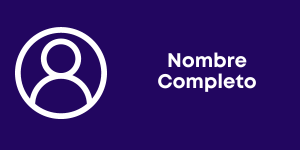
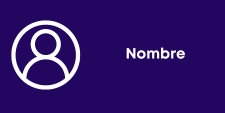
Correciones Gloria y Gabriel

diff --git a/UItkinter.py b/UItkinter.py
@@ -22,11 +22,13 @@ class UI:
         self.register_username = tk.PhotoImage(file="imagenes/NombreUsuarioAnalisis.png")
         self.register_mail = tk.PhotoImage(file="imagenes/correoRegistroAnalisRiesgo.png")
         self.register_password = tk.PhotoImage(file="imagenes/ContraseñaRegistroAnalisisRiesgo.png")
+        self.small_register_password= tk.PhotoImage(file="imagenes/ContraseniaPequena.png")
         self.log_out = tk.PhotoImage(file="imagenes/CerrarSesion.png")
         self.change_password = tk.PhotoImage(file="imagenes/CambiarContraseñaSesion.png")
         self.actual_password = tk.PhotoImage(file="imagenes/ContraseñaActual.png")
         self.new_password = tk.PhotoImage(file="imagenes/NuevaContraseña.png")
         self.delete_account = tk.PhotoImage(file="imagenes/EliminarCuenta.png")
+        self.verify_password = tk.PhotoImage(file="imagenes/VerificarContraseña.png")
 
         self.register_name_small = self.register_name.subsample(2)
         self.register_username_small = self.register_username.subsample(2)
@@ -63,63 +65,56 @@ class UI:
         self.ventana_log_out.state("zoomed")
 
     def obtener_info_order(self):
-        try:
             id = self.entry_id.get()
             password = self.entry_password.get()
             if " " in id:
                 raise Exception("El ID no puede contener espacios")
-            if " " in password:
+            elif " " in password:
                 raise Exception("No puede contener espacios la contraseña")
-        except Exception as error:
-            tk.messagebox.showinfo(str(error), str(error))
-        else:
-            return [id, password]
+
+            else:
+                return [id, password]
 
     def obtener_info_register(self):
-        try:
-            nombre = self.entry_name.get()
-            nombre_sin_espacios = nombre.replace(" ", "")
-            nombre_usuario = self.entry_id.get()
-            correo = self.entry_correo.get()
-            contrasenia = self.entry_password.get()
-            test_nombre_sin_espacios = nombre_sin_espacios.isalpha()
-            test_correo = ("@" in correo)
-            if test_nombre_sin_espacios is False:
-                raise Exception("No ingresaste bien el nombre")
-            if test_correo is False:
-                raise Exception("No ingresaste bien el correo")
-            if " " in contrasenia:
-                raise Exception("La contraseña no contiene espacios")
-            if " " in nombre_usuario:
-                raise Exception("El nombre de usuario es sin espacios")
-        except Exception as error:
-            tk.messagebox.showinfo(str(error), str(error))
+
+        nombre = self.entry_name.get()
+        nombre_sin_espacios = nombre.replace(" ", "")
+        nombre_usuario = self.entry_id.get()
+        correo = self.entry_correo.get()
+        contrasenia = self.entry_password.get()
+        v_contrasenia = self.entry_confirm_password.get()
+        test_nombre_sin_espacios = nombre_sin_espacios.isalpha()
+        test_correo = ("@" in correo)
+        if test_nombre_sin_espacios is False:
+            raise Exception("No ingresaste bien el nombre")
+        elif test_correo is False:
+            raise Exception("No ingresaste bien el correo")
+        elif " " in contrasenia:
+            raise Exception("La contraseña no contiene espacios")
+        elif " " in nombre_usuario:
+            raise Exception("El nombre de usuario es sin espacios")
+        elif v_contrasenia != contrasenia:
+            raise Exception("La verificación de contraseña no es correcta")
         else:
             return [nombre, nombre_usuario, correo, contrasenia]
 
+
     def obtener_info_change_password(self):
-        try:
             old_password = self.entry_old_password.get()
             new_password = self.entry_password.get()
             if " " in old_password:
                 raise Exception("Las contraseñas no pueden contener espacios")
-            if " " in new_password:
+            elif " " in new_password:
                 raise Exception("Las contraseñas  no pueden contener espacios")
-        except Exception as error:
-            tk.messagebox.showinfo(str(error), str(error))
-        else:
-            return [old_password, new_password]
+            else:
+                return [old_password, new_password]
 
     def obtener_info_delete_account(self):
-        try:
             password = self.entry_old_password.get()
             if " " in password:
                 raise Exception("Las contraseña no pueden contener espacios")
-
-        except Exception as error:
-            tk.messagebox.showinfo(str(error), str(error))
-        else:
-            return password
+            else:
+                return password
 
     # CREACION DE VENTANAS
     def create_principal_window(self, controller, username=""):
@@ -234,7 +229,7 @@ class UI:
                                      background="white", justify="center", bd=4, width=35, borderwidth=0, )
         self.entry_correo.grid(row=2, column=2)
 
-        self.label_password = tk.Label(self.ventana_user_register_buttons_frame, image=self.register_password,
+        self.label_password = tk.Label(self.ventana_user_register_buttons_frame, image=self.small_register_password,
                                        borderwidth=0,
                                        background="#220660")
         self.label_password.grid(row=3, column=1)
@@ -243,13 +238,22 @@ class UI:
                                        background="white", justify="center", bd=4, width=35, borderwidth=0, show="*")
         self.entry_password.grid(row=3, column=2)
 
+        self.label_confirm_password = tk.Label(self.ventana_user_register_buttons_frame, image=self.verify_password,
+                                       borderwidth=0,
+                                       background="#220660")
+        self.label_confirm_password.grid(row=4, column=1)
+        self.entry_confirm_password = tk.Entry(self.ventana_user_register_buttons_frame, font=("Calibri bold", 25),
+                                       fg="#220660",
+                                       background="white", justify="center", bd=4, width=35, borderwidth=0, show="*")
+        self.entry_confirm_password.grid(row=4, column=2)
+
         self.button_back = tk.Button(self.ventana_user_register_buttons_frame, image=self.menu, borderwidth=0,
                                      background="#220660", command=self.volver_menu)
         self.button_final_register = tk.Button(self.ventana_user_register_buttons_frame, image=self.user_register,
                                                borderwidth=0,
                                                background="#220660", command=controller.getinforegister)
-        self.button_back.grid(row=4, column=1)
-        self.button_final_register.grid(row=4, column=2)
+        self.button_back.grid(row=5, column=1)
+        self.button_final_register.grid(row=5, column=2)
 
         self.ventana_user_register.mainloop()
     def create_window_order(self, controller):

diff --git a/controller.py b/controller.py
@@ -17,19 +17,16 @@ class Controller:
     def getinforegister(self):
         try:
             usuario=self.vista.obtener_info_register()
-            print(usuario)
             self.modelo.sign_up(usuario[0],usuario[1],usuario[2],usuario[3])
+
         except Exception as error:
             tk.messagebox.showerror(str(error),str(error))
         else:
-            tk.messagebox.showinfo("Se ingreso correctamente el usuario","No ocurrio ningún problema")
 
             self.vista.volver_menu()
 
     def create_window_order(self):
         self.vista.create_window_order(self)
-
-
 
 
 
@@ -40,10 +37,11 @@ class Controller:
             password= self.vista.obtener_info_order()[1]
             print(id, password, "ESTO ES LO QUE DA LA VISTA ")
             self.modelo.log_in(id, password)
+        except TypeError:
+            tk.messagebox.showerror("Llena todos los campos de la encuesta", "Ninguno puede quedar vacio")
         except Exception as error:
             tk.messagebox.showerror(str(error),str(error))
         else:
-            tk.messagebox.showinfo("Se Inicio la sesión correctamente","Las credenciales de ingreso son correctas")
             self.vista.ventana_user_register.destroy()
             self.vista.create_window_log_out(self,id)
     def log_out(self):
@@ -53,7 +51,6 @@ class Controller:
             tk.messagebox.showerror(str(error), str(error))
         else:
             self.vista.ventana_log_out.destroy()
-            tk.messagebox.showinfo("Se Cerro la sesión correctamente", "No ocurrio ningún problema")
             self.vista.open_menu()
     def change_password(self):
         usuario = self.modelo.isLogIn
@@ -68,20 +65,22 @@ class Controller:
         try:
             contrasenias=self.vista.obtener_info_change_password()
             self.modelo.change_password(contrasenias[0],contrasenias[1])
+        except TypeError:
+            tk.messagebox.showerror("Llena todos los campos de la encuesta", "Ninguno puede quedar vacio")
         except Exception as error:
             tk.messagebox.showerror(str(error),str(error))
         else:
-            tk.messagebox.showinfo("Se hizo el cambio de contraseña ","No ocurrio ningún problema")
             self.vista.back_create_window_log_out()
     def getinfodelete_account(self):
         try:
             password=self.vista.obtener_info_delete_account()
             self.modelo.delete_account(self.modelo.isLogIn.username,password)
             self.modelo.log_out()
+        except TypeError :
+            tk.messagebox.showerror("Llena todos los campos de la encuesta", "Ninguno puede quedar vacio")
         except Exception as error:
             tk.messagebox.showerror(str(error),str(error))
         else:
-            tk.messagebox.showinfo("Se elimino la cuenta","La eliminación se hizo exitosamente")
             self.vista.ventana_delete_account.destroy()
             self.vista.ventana_log_out.destroy()
             self.vista.open_menu()

diff --git a/modelo.py b/modelo.py
@@ -9,9 +9,7 @@ class User:
 
 
 
-class Administrator(User):
-    def __init__(self, username: str, name: str, password: str, mail: str):
-        User.__init__(username, name, password, mail)
+
 
 
 class Program:
@@ -24,7 +22,7 @@ class Program:
     def sign_up(self, name, username, mail, password):
         for user in self.user_list:
             if user.username == username:
-                raise Exception("El Usuario ya existe", "El Usuario ya existe")
+                raise Exception("ya existe un usuario con el nombre de usuario ingresado, cambia tu nombre de usuario para poder registrarte")
         else:
          newUser = User(username, name, password, mail)
          print(newUser.username + " " + password)
